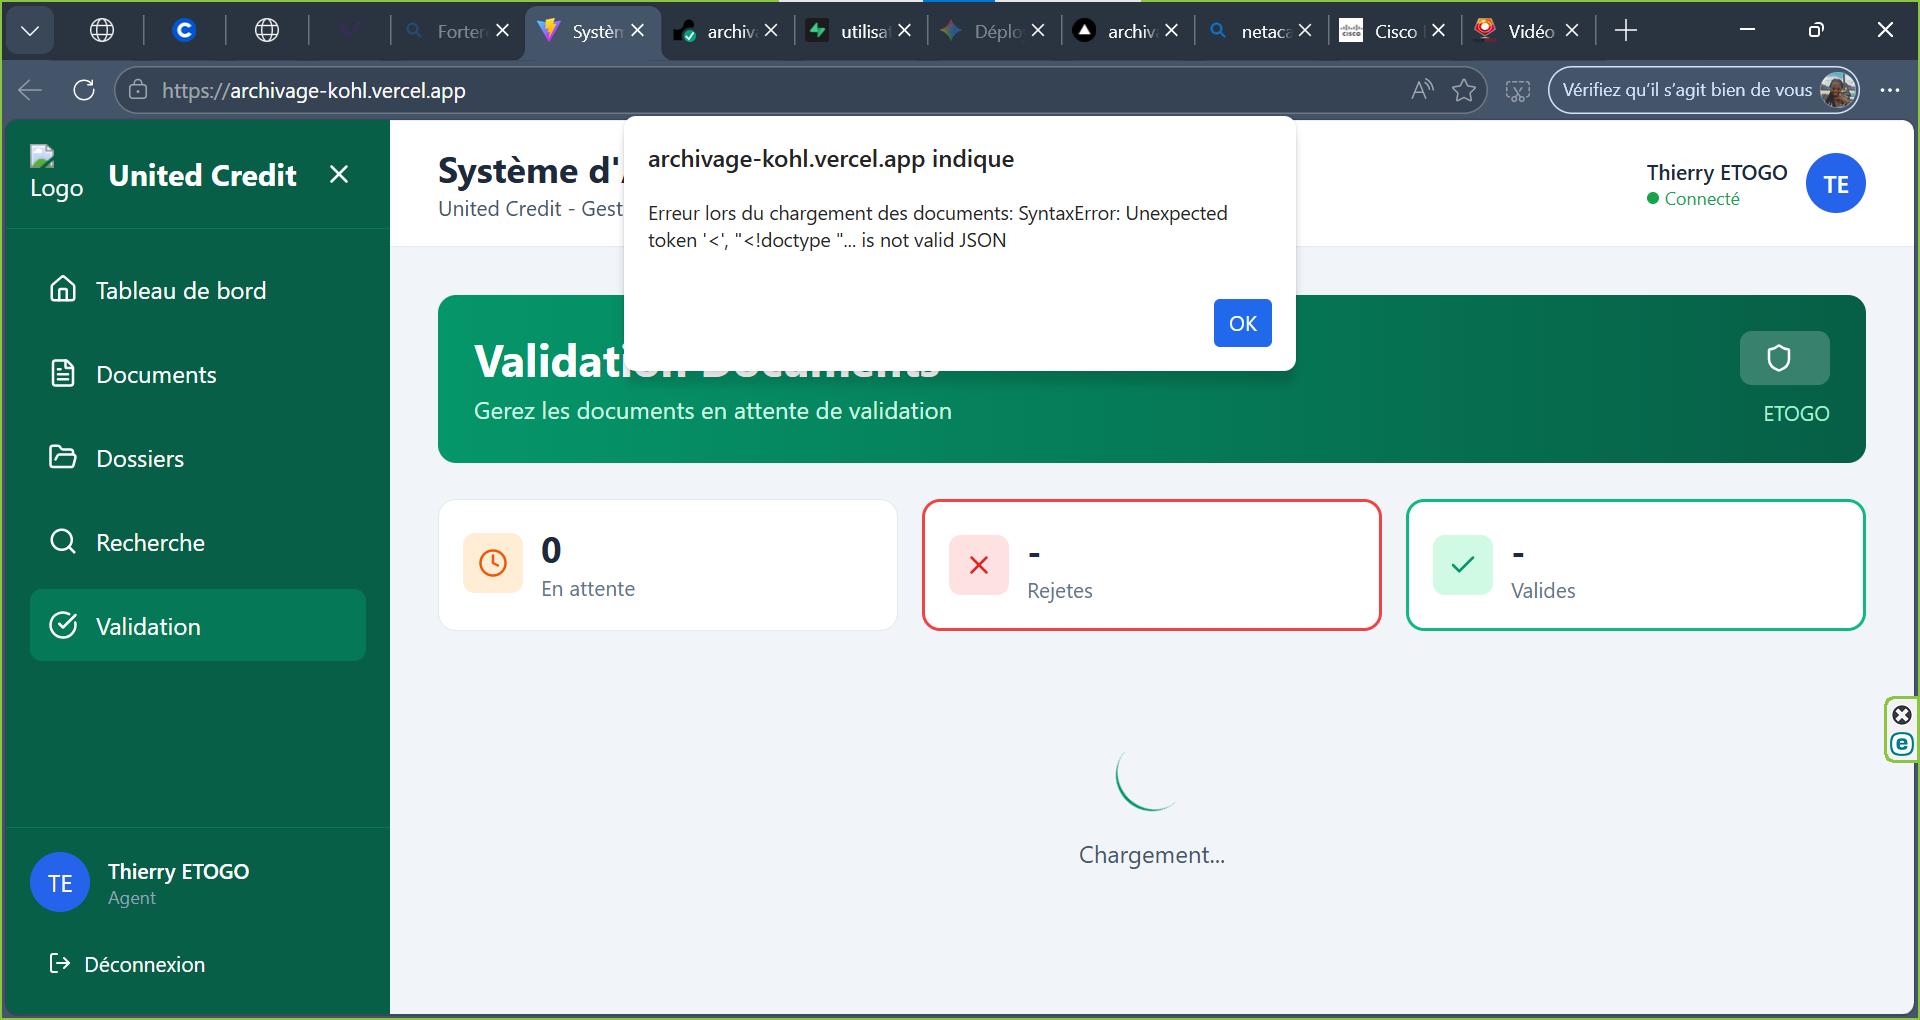
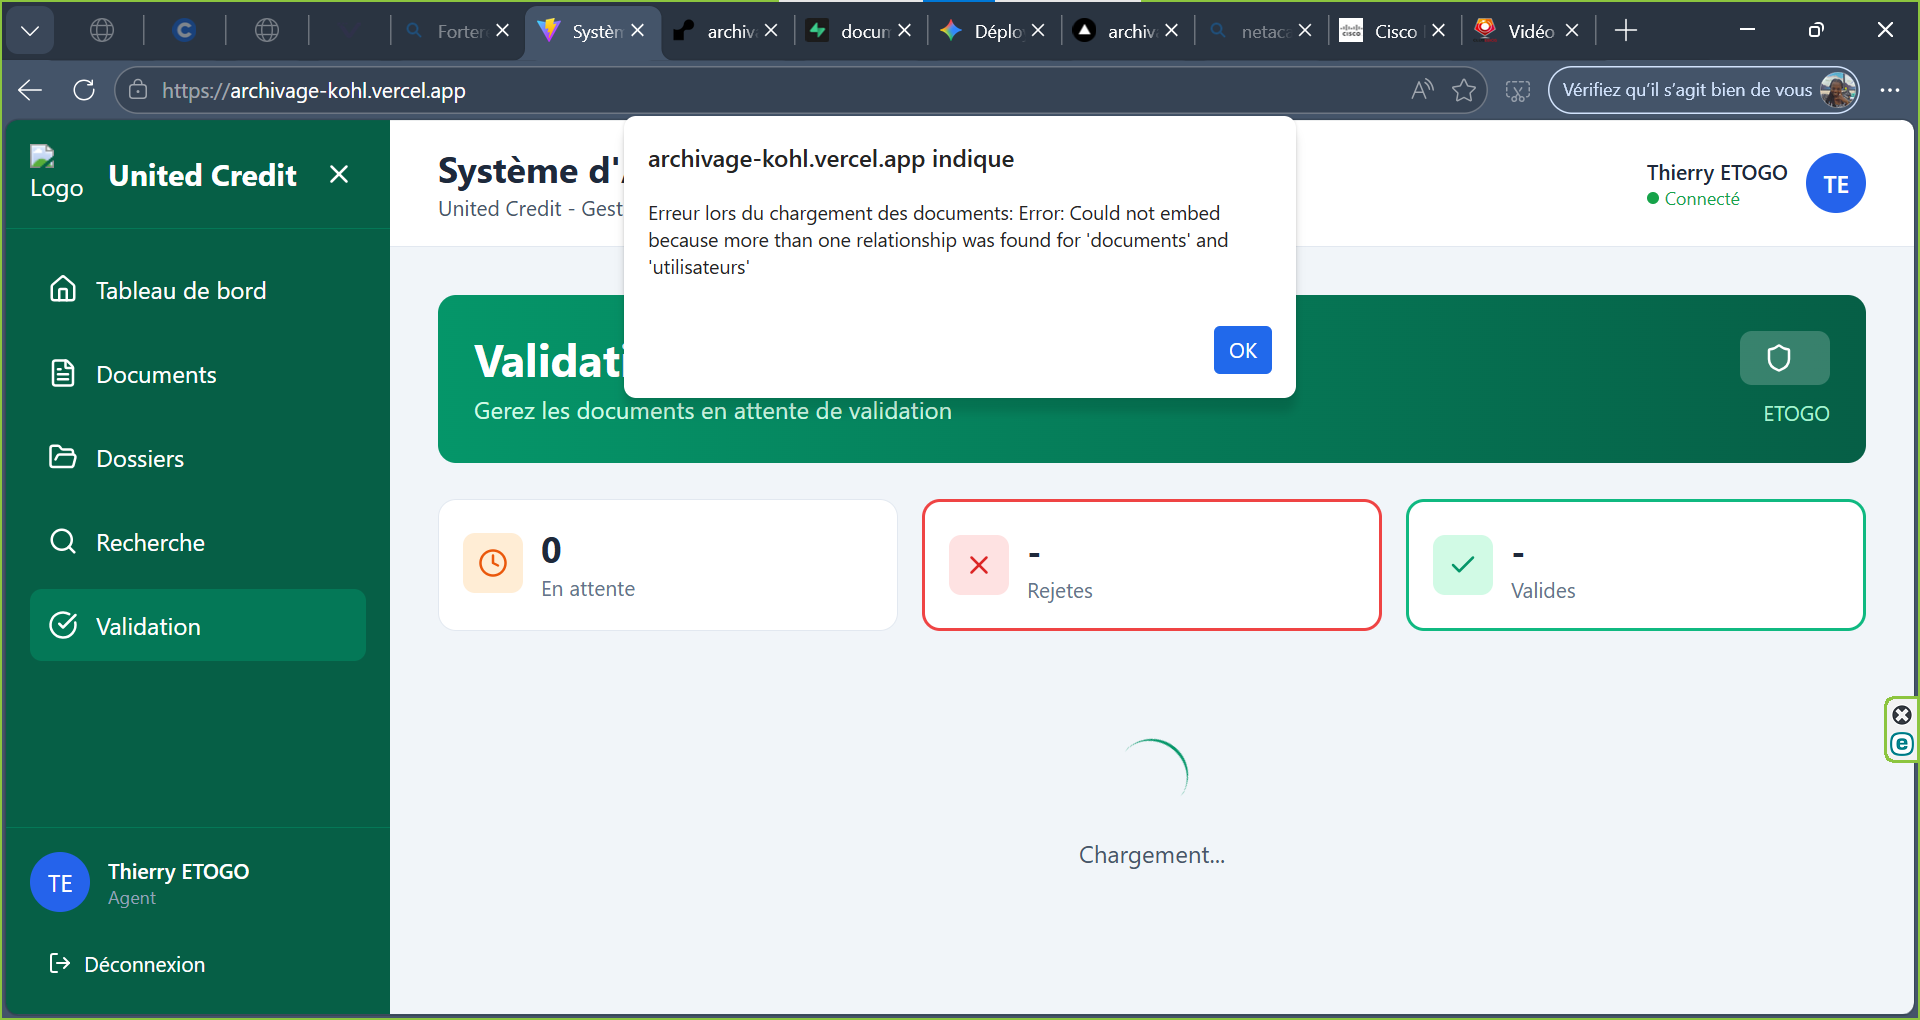
fix: supprimer tous les joins Supabase - requêtes séparées partout

Changed region(s): [[0.3125, 0.2735, 0.6875, 0.3951], [0.3438, 0.1824, 0.6562, 0.2735], [0.4375, 0.0304, 0.4688, 0.0608]]

diff --git a/backend/src/routes/validation.js b/backend/src/routes/validation.js
@@ -4,23 +4,44 @@ import { authMiddleware } from '../middlewares/auth.js';
 
 const router = Router();
 
+const enrichDocs = async (data) => {
+  if (!data?.length) return [];
+  const typeIds   = [...new Set(data.map(d => d.type_document_id).filter(Boolean))];
+  const agenceIds = [...new Set(data.map(d => d.agence_id).filter(Boolean))];
+  const deptIds   = [...new Set(data.map(d => d.departement_id).filter(Boolean))];
+  const userIds   = [...new Set(data.map(d => d.uploaded_by).filter(Boolean))];
+
+  const [types, agences, depts, users] = await Promise.all([
+    typeIds.length   ? supabase.from('types_documents').select('id,nom').in('id', typeIds)   : { data: [] },
+    agenceIds.length ? supabase.from('agences').select('id,nom').in('id', agenceIds)         : { data: [] },
+    deptIds.length   ? supabase.from('departements').select('id,nom').in('id', deptIds)      : { data: [] },
+    userIds.length   ? supabase.from('utilisateurs').select('id,nom,prenom').in('id', userIds) : { data: [] },
+  ]);
+
+  const typeMap  = Object.fromEntries((types.data  || []).map(t => [t.id, t.nom]));
+  const agenceMap= Object.fromEntries((agences.data|| []).map(a => [a.id, a.nom]));
+  const deptMap  = Object.fromEntries((depts.data  || []).map(d => [d.id, d.nom]));
+  const userMap  = Object.fromEntries((users.data  || []).map(u => [u.id, `${u.prenom||''} ${u.nom||''}`.trim()]));
+
+  return data.map(d => ({
+    ...d,
+    type:            typeMap[d.type_document_id] || null,
+    departement:     deptMap[d.departement_id]   || null,
+    agencia_nom:     agenceMap[d.agence_id]       || null,
+    uploaded_by_nom: userMap[d.uploaded_by]       || null,
+  }));
+};
+
 // GET /api/validation/pending
 router.get('/pending', authMiddleware, async (req, res) => {
   try {
     const { data, error } = await supabase
       .from('documents')
-      .select(`*, types_documents(nom), departements(nom), agences(nom), utilisateurs(nom, prenom)`)
+      .select('*')
       .in('statut', ['en_attente', 'en_attente_critique', 'modif_en_attente'])
       .order('created_at', { ascending: false });
     if (error) throw error;
-    const docs = (data || []).map(d => ({
-      ...d,
-      type: d.types_documents?.nom,
-      departement: d.departements?.nom,
-      agencia_nom: d.agences?.nom,
-      uploaded_by_nom: d.utilisateurs ? `${d.utilisateurs.prenom} ${d.utilisateurs.nom}` : '',
-    }));
-    res.json(docs);
+    res.json(await enrichDocs(data));
   } catch (err) {
     res.status(500).json({ message: err.message });
   }
@@ -31,17 +52,11 @@ router.get('/approved', authMiddleware, async (req, res) => {
   try {
     const { data, error } = await supabase
       .from('documents')
-      .select(`*, types_documents(nom), departements(nom), agences(nom)`)
+      .select('*')
       .eq('statut', 'valide')
       .order('validated_at', { ascending: false });
     if (error) throw error;
-    const docs = (data || []).map(d => ({
-      ...d,
-      type: d.types_documents?.nom,
-      departement: d.departements?.nom,
-      agencia_nom: d.agences?.nom,
-    }));
-    res.json(docs);
+    res.json(await enrichDocs(data));
   } catch (err) {
     res.status(500).json({ message: err.message });
   }
@@ -52,17 +67,11 @@ router.get('/rejected', authMiddleware, async (req, res) => {
   try {
     const { data, error } = await supabase
       .from('documents')
-      .select(`*, types_documents(nom), departements(nom), agences(nom)`)
+      .select('*')
       .eq('statut', 'rejete')
       .order('updated_at', { ascending: false });
     if (error) throw error;
-    const docs = (data || []).map(d => ({
-      ...d,
-      type: d.types_documents?.nom,
-      departement: d.departements?.nom,
-      agencia_nom: d.agences?.nom,
-    }));
-    res.json(docs);
+    res.json(await enrichDocs(data));
   } catch (err) {
     res.status(500).json({ message: err.message });
   }

diff --git a/backend/src/routes/dossiers.js b/backend/src/routes/dossiers.js
@@ -7,21 +7,24 @@ const router = Router();
 // GET /api/dossiers
 router.get('/', authMiddleware, async (req, res) => {
   try {
-    const { data, error } = await supabase
-      .from('dossiers')
-      .select(`*, utilisateurs(nom, prenom)`)
-      .order('nom');
+    const { data, error } = await supabase.from('dossiers').select('*').order('nom');
     if (error) throw error;
-    const dossiers = (data || []).map(d => ({
-      ...d,
-      created_by_nom: d.utilisateurs ? `${d.utilisateurs.prenom} ${d.utilisateurs.nom}` : '',
-      nb_documents: 0,
-    }));
-    // Compter les documents par dossier
+
+    const userIds = [...new Set((data || []).map(d => d.created_by).filter(Boolean))];
+    const { data: users } = userIds.length
+      ? await supabase.from('utilisateurs').select('id,nom,prenom').in('id', userIds)
+      : { data: [] };
+    const userMap = Object.fromEntries((users || []).map(u => [u.id, `${u.prenom||''} ${u.nom||''}`.trim()]));
+
     const { data: counts } = await supabase.from('dossier_documents').select('dossier_id');
     const countMap = {};
-    (counts || []).forEach((c) => { countMap[c.dossier_id] = (countMap[c.dossier_id] || 0) + 1; });
-    dossiers.forEach(d => { d.nb_documents = countMap[d.id] || 0; });
+    (counts || []).forEach(c => { countMap[c.dossier_id] = (countMap[c.dossier_id] || 0) + 1; });
+
+    const dossiers = (data || []).map(d => ({
+      ...d,
+      created_by_nom: userMap[d.created_by] || '',
+      nb_documents: countMap[d.id] || 0,
+    }));
     res.json(dossiers);
   } catch (err) {
     res.status(500).json({ message: err.message });

diff --git a/backend/src/routes/misc.js b/backend/src/routes/misc.js
@@ -108,7 +108,7 @@ router.post('/audit/log', authMiddleware, async (req, res) => {
 
 // ── Utilisateurs ──────────────────────────────────────────────
 router.get('/users', authMiddleware, async (req, res) => {
-  const { data, error } = await supabase.from('utilisateurs').select(`*, roles(nom, code), agences(nom), departements(nom)`).order('nom');
+  const { data, error } = await supabase.from('utilisateurs').select('*').order('nom');
   if (error) return res.status(500).json({ message: error.message });
   res.json(data || []);
 });
@@ -139,9 +139,9 @@ router.get('/roles', authMiddleware, async (req, res) => {
 
 // ── Auth me ───────────────────────────────────────────────────
 router.get('/auth/me', authMiddleware, async (req, res) => {
-  const { data, error } = await supabase.from('utilisateurs').select(`*, roles(nom, code)`).eq('id', req.user.id).single();
+  const { data, error } = await supabase.from('utilisateurs').select('*').eq('id', req.user.id).single();
   if (error) return res.status(500).json({ message: error.message });
-  res.json({ ...data, role_code: data.roles?.code, role_nom: data.roles?.nom });
+  res.json(data);
 });
 
 export default router;